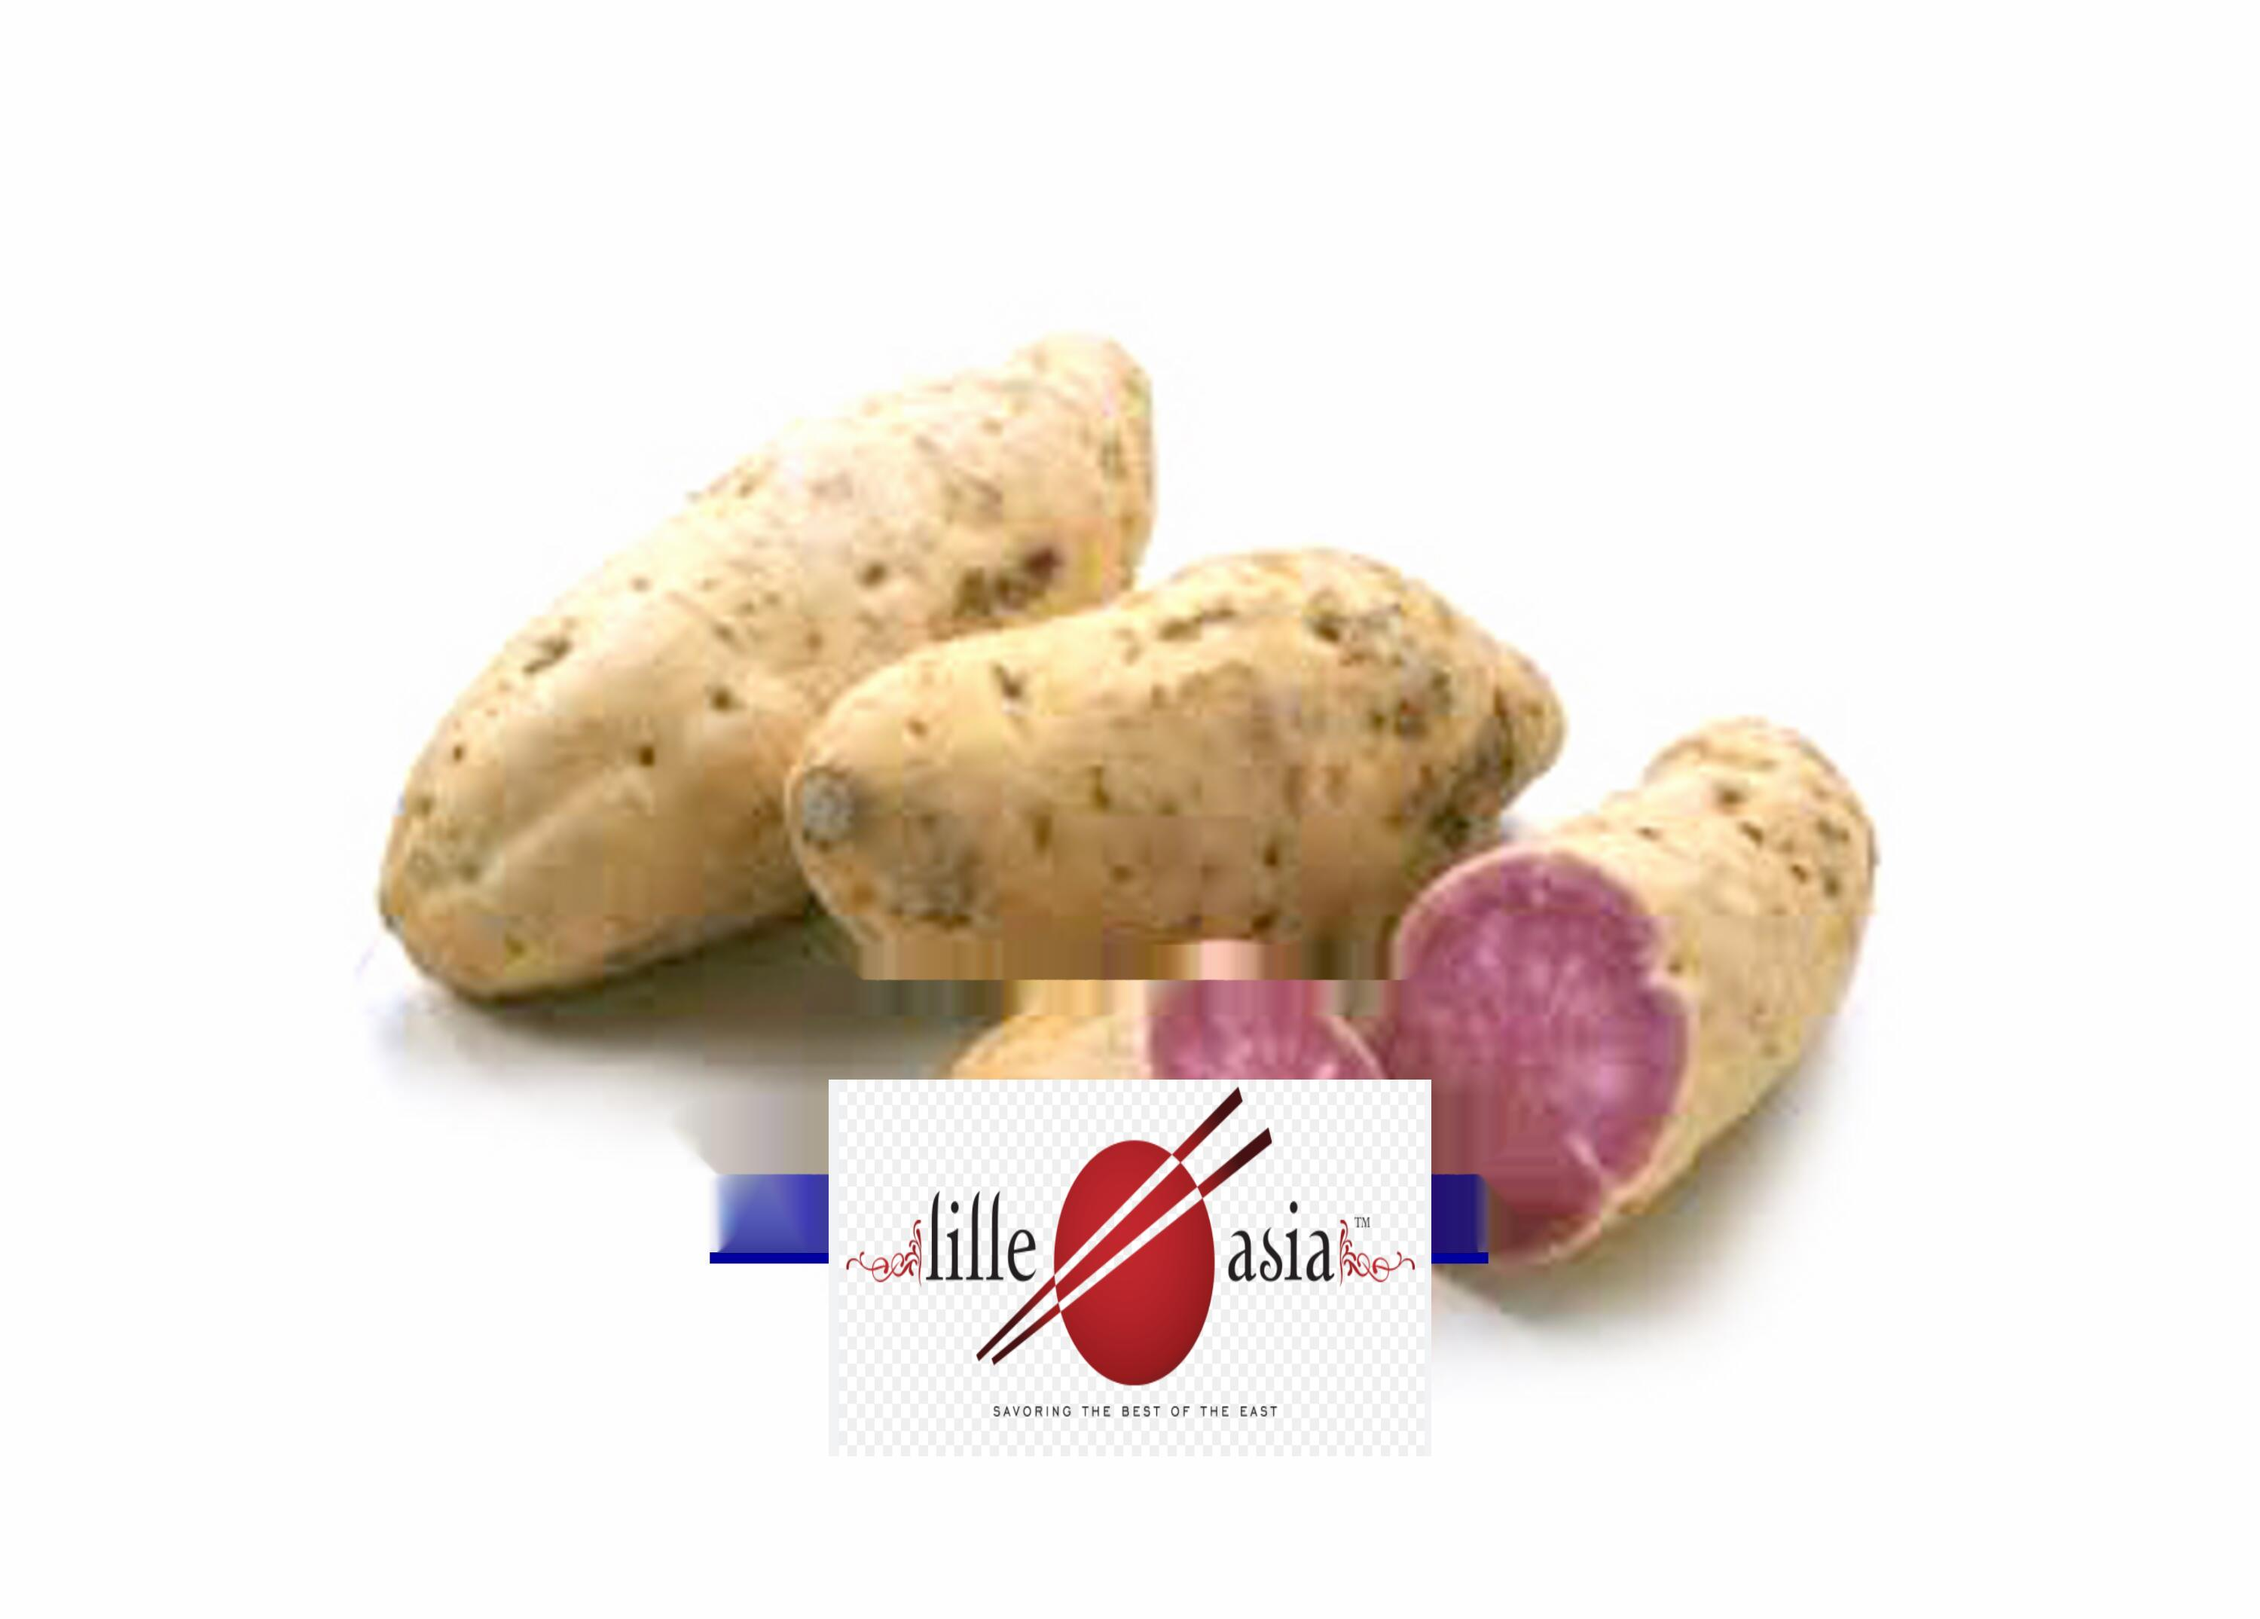
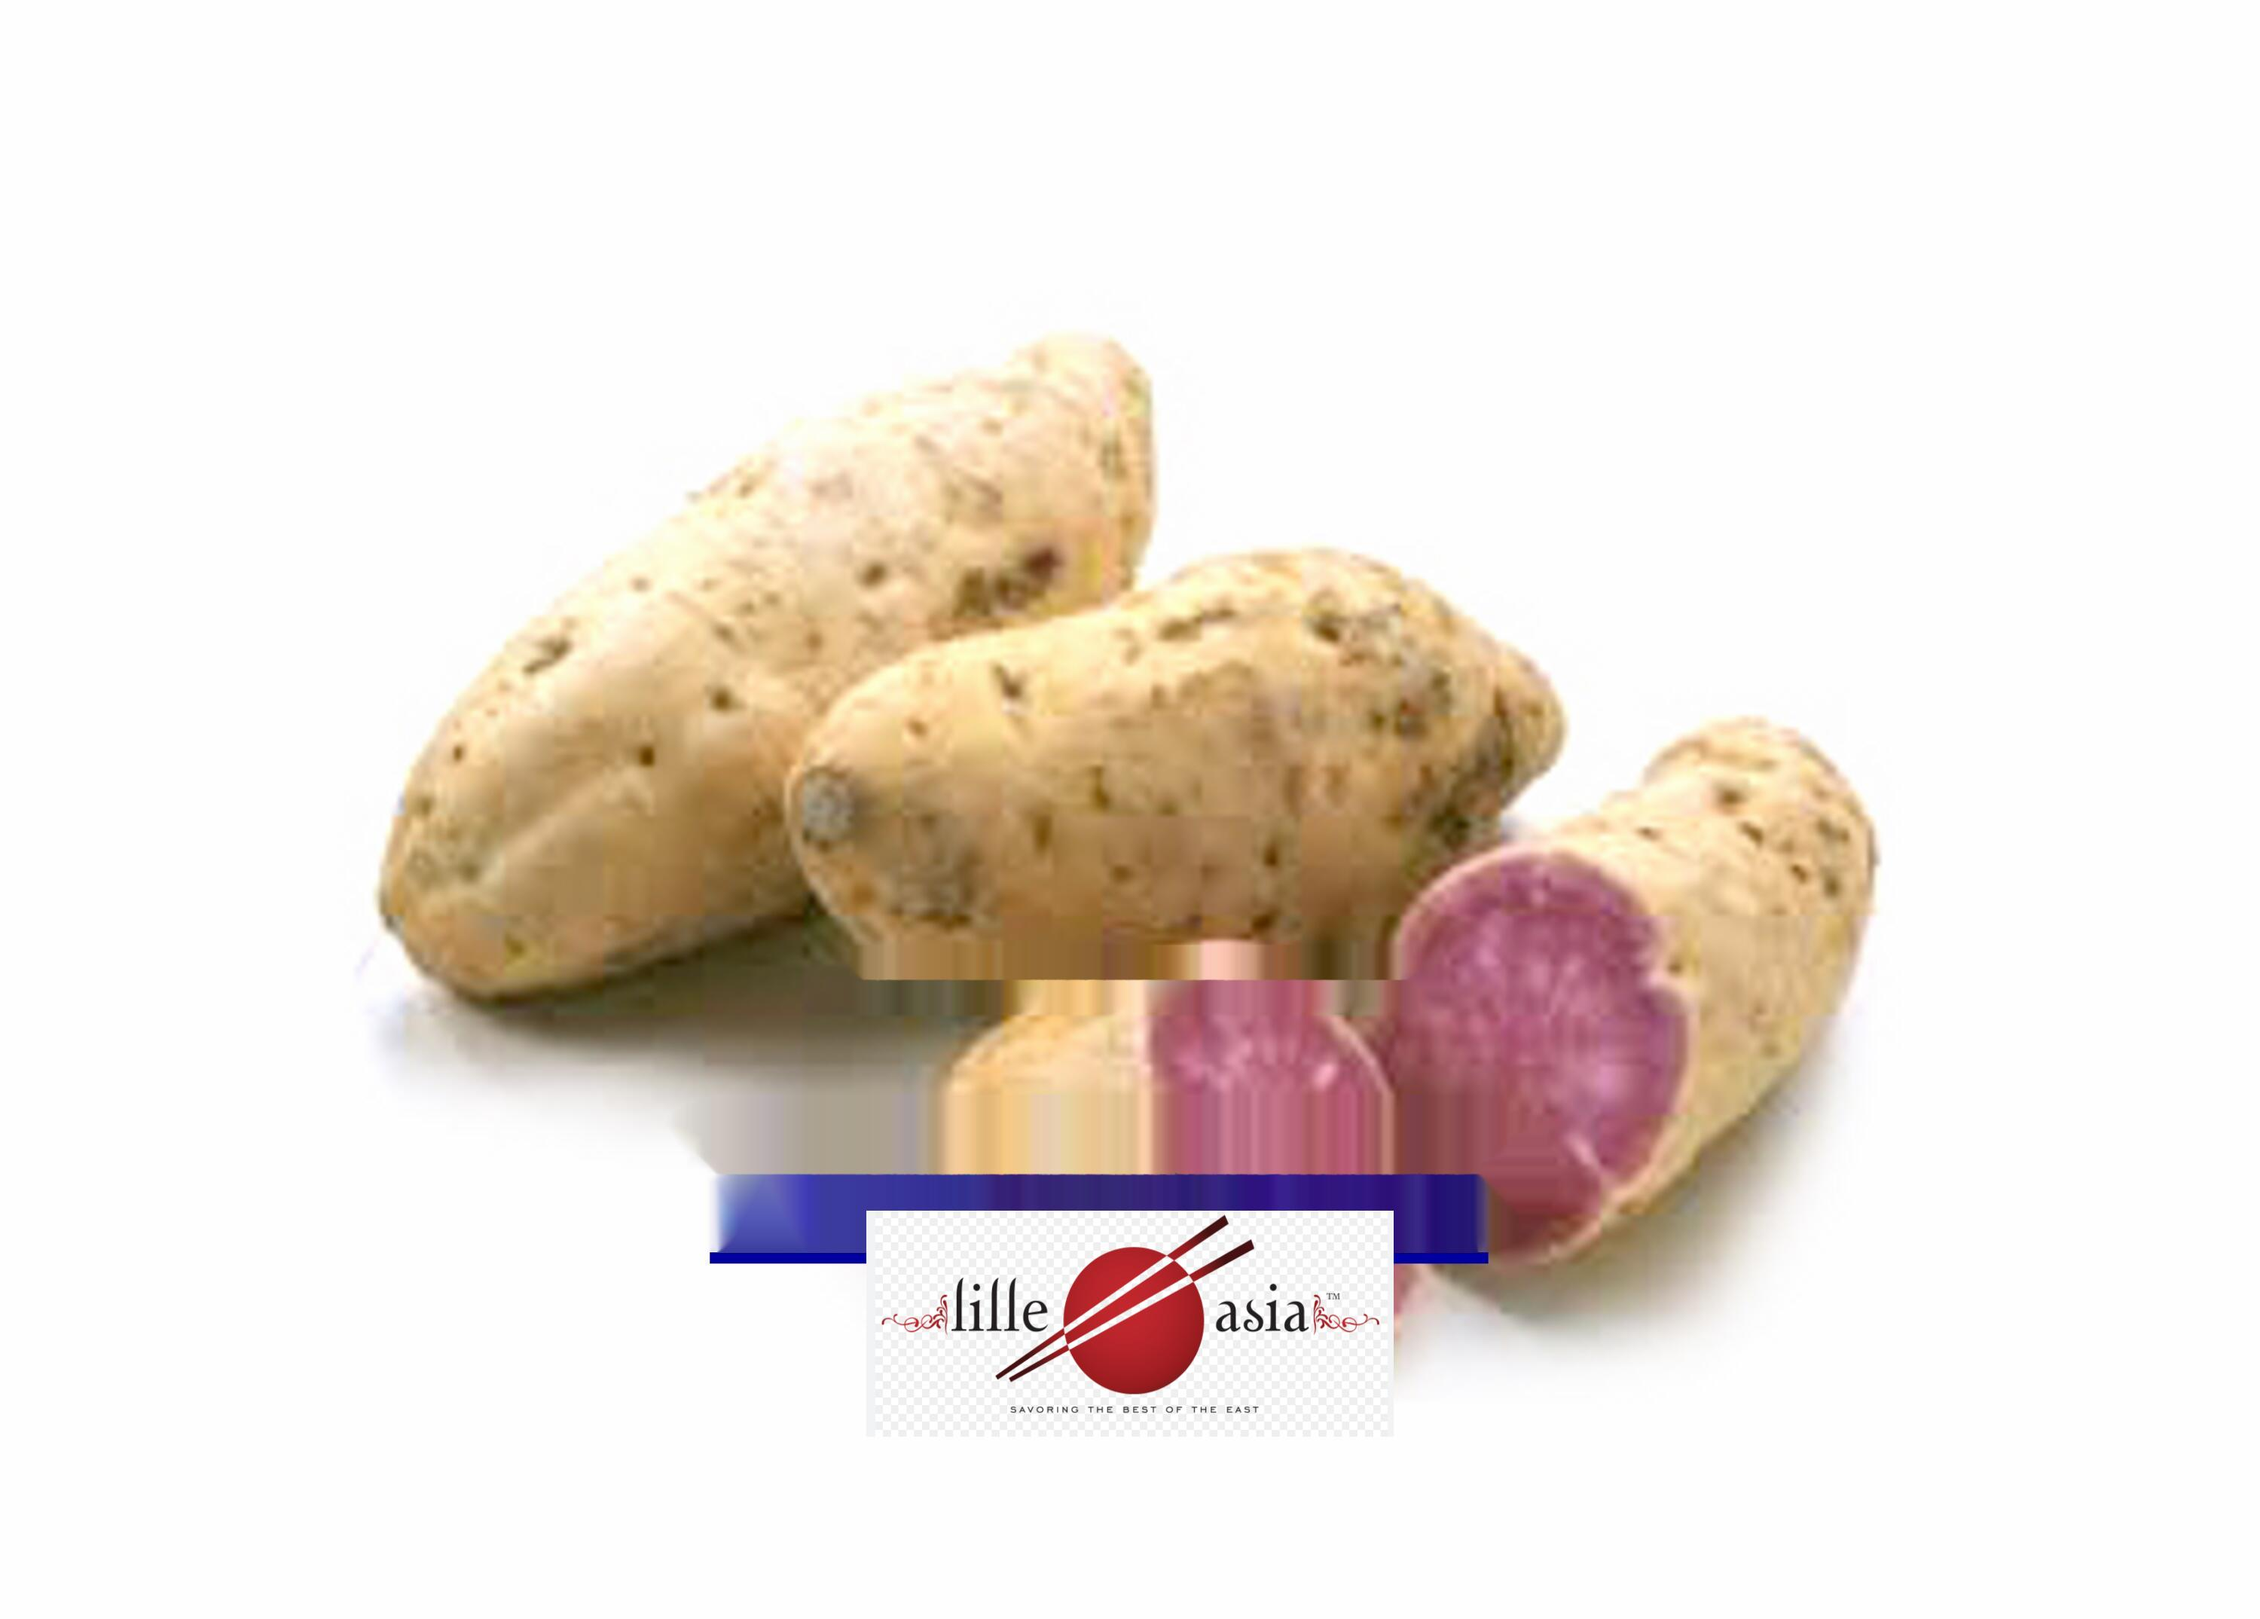
.

Changed region(s): [[0.341, 0.6547, 0.651, 0.873]]

diff --git a/set.py b/set.py
@@ -22,48 +22,64 @@ image_files = [f for f in os.listdir(input_folder_path) if os.path.isfile(os.pat
 # Create the keras_ocr pipeline
 pipeline = keras_ocr.pipeline.Pipeline()
 
-
 def inpaint_and_insert(img_path, pipeline, image_to_insert_path, output_image_path, max_width=None, max_height=None):
+    # Read the image using keras_ocr tools
     img = keras_ocr.tools.read(img_path)
+    
+    # Use the pipeline to recognize text in the image
     prediction_groups = pipeline.recognize([img])
-
+    
+    # Create a mask for inpainting
     mask = np.zeros(img.shape[:2], dtype="uint8")
+    
+    # Iterate over recognized text boxes
     for box in prediction_groups[0]:
         x0, y0 = box[1][0]
         x1, y1 = box[1][1]
         x2, y2 = box[1][2]
         x3, y3 = box[1][3]
+        
+        # Calculate midpoints of diagonal corners
         x_mid0, y_mid0 = midpoint(x1, y1, x2, y2)
         x_mid1, y_mid1 = midpoint(x0, y0, x3, y3)
+        
+        # Only inpaint if the text is below the midpoint
         if y_mid0 > img.shape[0] / 2 and y_mid1 > img.shape[0] / 2:
+            # Calculate line thickness and define the line
             thickness = int(math.sqrt((x2 - x1) ** 2 + (y2 - y1) ** 2))
             cv2.line(mask, (x_mid0, y_mid0), (x_mid1, y_mid1), 255, thickness)
-
+    
+    # Inpaint using the mask
     inpainted_img = cv2.inpaint(img, mask, 3, cv2.INPAINT_NS)
+    
+    # Open the base image
     base_image = Image.fromarray(inpainted_img)
 
+    
+    # Open the image to insert and remove transparent background
     image_to_insert = Image.open(image_to_insert_path).convert('RGBA')
     image_data = image_to_insert.getdata()
     new_image_data = [(255, 255, 255, 255) if item[3] == 0 else item[:3] + (255,) for item in image_data]
     image_to_insert.putdata(new_image_data)
-
+    
+    # Resize the image to insert using tf.image.resize with BILINEAR method
     target_size = (max_width, max_height) if max_width and max_height else None
     resized_image = tf.image.resize(image_to_insert, target_size, method=tf.image.ResizeMethod.BILINEAR)
+    
+    # Convert resized image back to PIL image for accessing width and height
     resized_image_pil = Image.fromarray(resized_image.numpy().astype(np.uint8))
-
-    x = (base_image.width - resized_image_pil.width) // 2
-    y = 20 * (base_image.height - resized_image_pil.height) // 23
+    
+    # Calculate the position to insert the image
+    x = (base_image.width - resized_image_pil.width) // 2  # Center horizontally
+    y = 20 * (base_image.height - resized_image_pil.height) // 23  # Center vertically
+    
+    # Paste the resized image onto the base image
     base_image.paste(resized_image_pil, (x, y), resized_image_pil)
     
+    # Save the output image
     base_image.save(output_image_path)
 
-def inpaint_and_insert_batch(image_files, input_folder_path, pipeline, image_to_insert_path, output_folder_path, max_width=None, max_height=None):
-    for image_file in image_files:
-        img_path = os.path.join(input_folder_path, image_file)
-        output_image_path = os.path.join(output_folder_path, f'output_{image_file}')
-        inpaint_and_insert(img_path, pipeline, image_to_insert_path, output_image_path, max_width, max_height)
-
-#Iterate through each image file in the input folder
+# Iterate through each image file in the input folder
 for image_file in image_files:
     # Construct the full path to the input image file
     img_path = os.path.join(input_folder_path, image_file)
@@ -73,8 +89,8 @@ for image_file in image_files:
     output_image_path = os.path.join(output_folder_path, f'output_{image_file}')  # Output image path
     
     # Set the maximum width and height if needed
-    max_width = 500
-    max_height = 800
+    max_width = 300
+    max_height = 700
     
     # Call the inpaint_and_insert function for each image
-    inpaint_and_insert_batch(img_path, pipeline, image_to_insert_path, output_image_path, max_width, max_height)
+    inpaint_and_insert(img_path, pipeline, image_to_insert_path, output_image_path, max_width, max_height)
